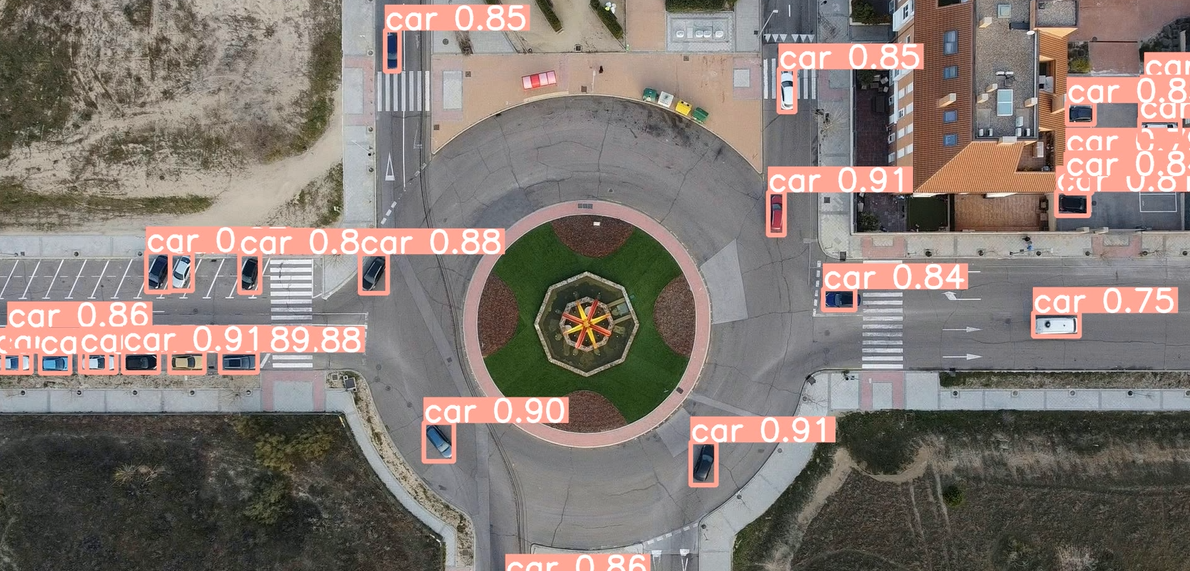
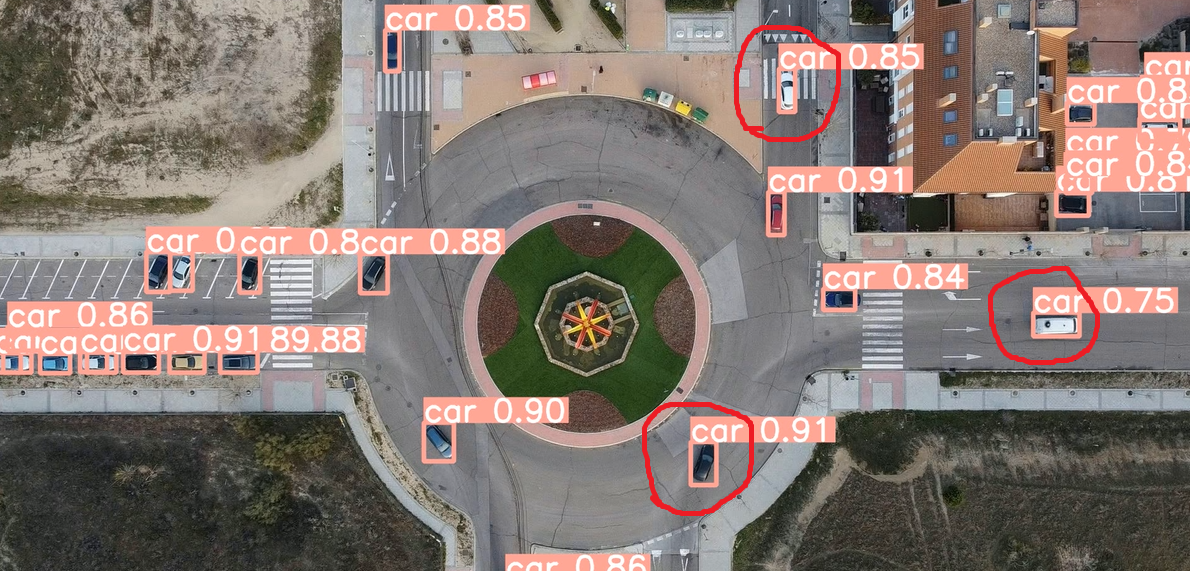
updatereadme5

diff --git a/README.md b/README.md
@@ -91,22 +91,22 @@ YOLOv10m detected the mislabeled object by YOLOv8m, but its confidence score is 
   <img src="results/image_v10_2.png" alt="Image 2" width="45%">
 </p> -->
 <p align="center">
-  <strong>yolov8n detects all objects correctly</strong>
+  <strong>yolov8n detected all marked objects correctly</strong>
   <br>
   <img src="results/image_v8n_2.png" alt="Image 1" width="70%">
 </p>
 <p align="center">
-  <strong>yolov8m detects all objects correctly</strong>
+  <strong>yolov8m detected all marked objects correctly</strong>
   <br>
   <img src="results/image_v8_2.png" alt="Image 2" width="70%">
 </p>
 <p align="center">
-  <strong>YOLOv9c incorrectly labeled one object but correctly detected two other objects</strong>
+  <strong>YOLOv9c incorrectly labeled one object but correctly detected two other marked objects</strong>
   <br>
   <img src="results/image_v9_2.png" alt="Image 1" width="70%">
 </p>
 <p align="center">
-  <strong>YOLOv10m failed to detect any of the objects</strong>
+  <strong>YOLOv10m failed to detect any of the marked objects</strong>
   <br>
   <img src="results/image_v10_2.png" alt="Image 2" width="70%">
 </p>
